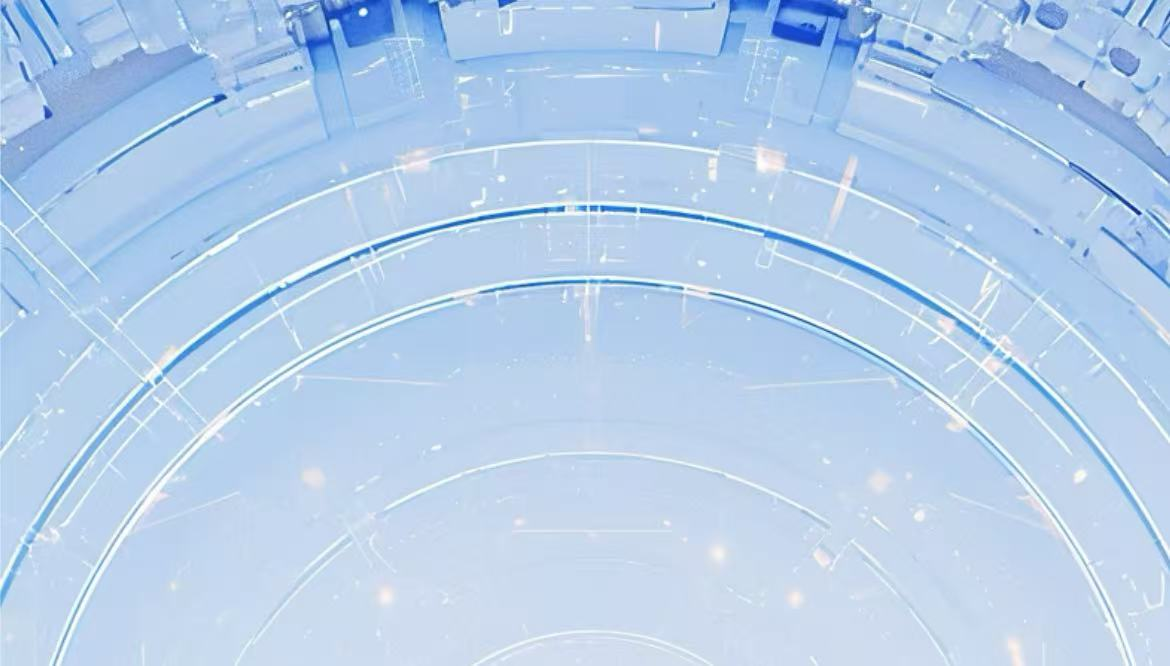
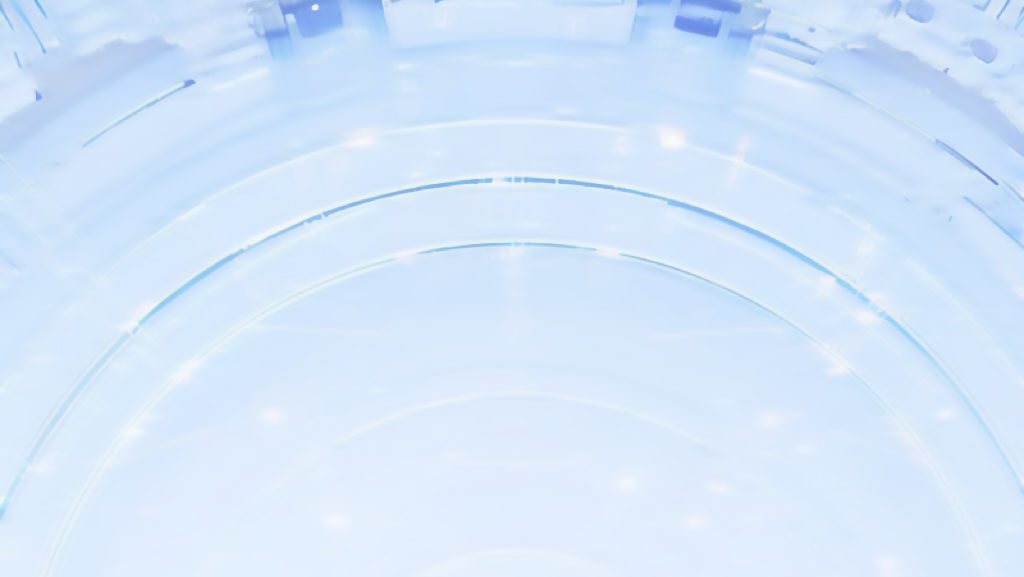
创建时间排序

diff --git a/src/views/governor/Governor.vue b/src/views/governor/Governor.vue
@@ -202,7 +202,7 @@
   >
     <template v-slot:footer>
       <span class="dialog-footer">
-        <el-button v-if="showJudgeButtonsForPreview" type="success" plain @click="handlePreviewJudge('pass')">合格</el-button>
+        <el-button v-if="showJudgeButtonsForPreview" type="success" plain @click="handleManualReviewPass()">合格</el-button>
         <el-button v-if="showJudgeButtonsForPreview" type="danger" plain @click="handlePreviewJudge('fail')">不合格</el-button>
       </span>
     </template>
@@ -572,7 +572,8 @@ function adaptBackendData(backendItem) {
     dataContent,
     hasReview: backendItem.hasReview || false,
     auditReport: backendItem.auditReport || '', // 新增
-    creatorName: backendItem.creatorName || '浙江省税务局' // 添加数源方字段
+    creatorName: backendItem.creatorName || '浙江省税务局', // 添加数源方字段
+    createdAt: backendItem.createdAt || backendItem.dataEntity?.createdAt || '' // 添加创建时间字段
   }
   
   return result;
@@ -595,35 +596,46 @@ const loadDataFromBackend = async () => {
       ElMessage.warning('数据格式不符合预期，请检查控制台')
     }
     
-    // 获取数源方信息
-    let creatorMap = {}
+    // 获取创建时间和数源方信息
+    let timeAndCreatorMap = {}
     try {
-      const creatorResponse = await axios.get('http://localhost:8081/api/objects/list1')
-      let creatorArray = []
-      if (Array.isArray(creatorResponse.data)) {
-        creatorArray = creatorResponse.data
-      } else if (creatorResponse.data.data && Array.isArray(creatorResponse.data.data)) {
-        creatorArray = creatorResponse.data.data
-      } else if (creatorResponse.data.list && Array.isArray(creatorResponse.data.list)) {
-        creatorArray = creatorResponse.data.list
+      const timeResponse = await axios.get('http://localhost:8081/api/objects/list1')
+      let timeArray = []
+      if (Array.isArray(timeResponse.data)) {
+        timeArray = timeResponse.data
+      } else if (timeResponse.data.data && Array.isArray(timeResponse.data.data)) {
+        timeArray = timeResponse.data.data
+      } else if (timeResponse.data.list && Array.isArray(timeResponse.data.list)) {
+        timeArray = timeResponse.data.list
       }
       
-      // 创建ID到creatorName的映射
-      creatorArray.forEach(item => {
+      // 创建ID到createdAt和creatorName的映射
+      timeArray.forEach(item => {
         if (item.id) {
-          creatorMap[item.id] = item.creatorName || '浙江省税务局'
+          timeAndCreatorMap[item.id] = {
+            createdAt: item.createdAt || '',
+            creatorName: item.creatorName || '浙江省税务局'
+          }
         }
       })
-    } catch (creatorError) {
-      console.warn('获取数源方信息失败:', creatorError)
+    } catch (timeError) {
+      console.warn('获取创建时间和数源方信息失败:', timeError)
     }
     
     // 合并数据
     tableData.value = dataArray.map(item => {
       const adaptedItem = adaptBackendData(item)
-      // 使用从list1接口获取的creatorName，如果没有则使用默认值
-      adaptedItem.creatorName = creatorMap[item.id] || '浙江省税务局'
+      // 使用从8081接口获取的createdAt和creatorName
+      const timeInfo = timeAndCreatorMap[item.id] || {}
+      adaptedItem.createdAt = timeInfo.createdAt || ''
+      adaptedItem.creatorName = timeInfo.creatorName || '浙江省税务局'
       return adaptedItem
+    })
+    
+    tableData.value.sort((a, b) => {
+      const dateA = new Date(a.createdAt || 0)
+      const dateB = new Date(b.createdAt || 0)
+      return dateB - dateA // 降序排列，最新的在前面
     })
     
     if (tableData.value.length === 0) {
@@ -1246,6 +1258,32 @@ const handlePreviewJudge = async (result) => {
   }
   showJudgeButtonsForPreview.value = false
   previewDialogVisible.value = false
+}
+
+// 手工审查合格处理方法 - 将状态更新为已合格并清空反馈意见
+const handleManualReviewPass = async () => {
+  // 从tableData中找到对应的行数据
+  const targetRow = tableData.value.find(row => row.id === previewForm.id)
+  if (!targetRow) {
+    ElMessage.error('无法找到对应的数据对象')
+    return
+  }
+  
+  try {
+    // 直接调用updateStatusViaBothPorts，传入空字符串作为反馈意见
+    const result = await updateStatusViaBothPorts(targetRow.id, '已合格', '')
+    if (result) {
+      ElMessage.success(`${targetRow.entity} 已更新为"已合格"状态，反馈意见已清空`)
+      loadDataFromBackend() // 重新加载数据
+      showJudgeButtonsForPreview.value = false
+      previewDialogVisible.value = false
+    } else {
+      ElMessage.warning(`${targetRow.entity} 状态更新失败`)
+    }
+  } catch (error) {
+    console.error('手工审查合格处理出错:', error)
+    ElMessage.error(`更新 ${targetRow.entity} 状态失败: ${error.message || '未知错误'}`)
+  }
 }
 
 const excelBinaryData = ref(null)

diff --git a/src/views/user/User.vue b/src/views/user/User.vue
@@ -26,7 +26,7 @@
               <el-icon><Refresh /></el-icon>
               刷新数据
             </el-button>
-            <!-- <el-button type="danger" plain @click="clearDatabase"><el-icon><Delete /></el-icon>清空使用方数据库</el-button> -->
+            <el-button type="danger" plain @click="clearDatabase"><el-icon><Delete /></el-icon>清空使用方数据库</el-button>
             <el-button type="primary" plain @click="showVisualization" class="visualization-btn">
               <el-icon><DataAnalysis /></el-icon>
               三维数据可视化
@@ -359,7 +359,8 @@ const loadTableData = async () => {
           feedback: detailItem.dataEntity?.feedback || '',
           locationInfo: detailItem.locationInfo || {},
           auditInfo: detailItem.auditInfo || {},
-          creatorName: detailItem.creatorName || '浙江省税务局'
+          creatorName: detailItem.creatorName || '浙江省税务局',
+          createdAt: detailItem.createdAt || detailItem.dataEntity?.createdAt || idItem.createdAt
         }
       } else {
         // 如果没有找到详细信息，只使用ID信息
@@ -380,12 +381,20 @@ const loadTableData = async () => {
           feedback: '',
           locationInfo: {},
           auditInfo: {},
-          creatorName: '浙江省税务局'
+          creatorName: '浙江省税务局',
+          createdAt: idItem.createdAt
         }
       }
     })
     
     tableData.value = mergedData
+    
+    tableData.value.sort((a, b) => {
+      const dateA = new Date(a.createdAt || 0)
+      const dateB = new Date(b.createdAt || 0)
+      return dateB - dateA // 降序排列，最新的在前面
+    })
+    
     console.log('数据加载完成，共', mergedData.length, '条记录')
     
   } catch (error) {

diff --git a/src/components/source/AuditLogDialog.vue b/src/components/source/AuditLogDialog.vue
@@ -3,6 +3,7 @@
     :model-value="visible"
     :title="`审计日志-${entityName || objectId || '未知实体'}`"
     width="1200px"
+    height="2000px"
     :close-on-click-modal="false"
     :show-close="true"
     @close="emit('close')"
@@ -11,7 +12,7 @@
   >
     <div class="audit-log-content">
       <!-- 左侧目录 -->
-      <div class="log-directory">
+      <!-- <div class="log-directory">
         <el-menu
           :default-active="activeType"
           class="log-menu"
@@ -23,7 +24,7 @@
           <el-menu-item index="查询">查询日志</el-menu-item>
           <el-menu-item index="审核">审核日志</el-menu-item>
         </el-menu>
-      </div>
+      </div> -->
       <!-- 右侧表格 -->
       <div class="log-table-area">
         <el-table
@@ -169,7 +170,7 @@ const fetchAuditLogs = async () => {
           return mappedData
         })
       )
-      allData.value = recordsWithHash
+      allData.value = recordsWithHash.sort((a, b) => new Date(b.time) - new Date(a.time))
       console.log('最终数据:', allData.value)
     } else {
       console.error('API返回错误:', result.msg)
@@ -308,6 +309,17 @@ function handleViewAuditLog() {
   font-size: 14px !important;
   text-align: center !important;
   padding: 12px 8px !important;
+}
+
+/* 设置弹窗高度 - 能容纳10条记录 */
+:deep(.audit-log-dialog) {
+  height: 750px !important;
+  max-height: 750px !important;
+}
+
+:deep(.audit-log-dialog .el-dialog__body) {
+  height: 600px !important;
+  overflow: visible;
 }
 
 .dialog-footer {

diff --git a/src/components/user/DirectoryTable.vue b/src/components/user/DirectoryTable.vue
@@ -88,8 +88,14 @@
           <el-table-column label="操作" width="200" align="center">
             <template #default="scope">
               <div class="operation-buttons">
-                <el-button 
+                <!-- <el-button 
                   v-if="!isGroupApplied(currentGroup)"
+                  type="primary" 
+                  plain 
+                  @click="handleApplyForGroup" 
+                  size="small"
+                > -->
+                <el-button 
                   type="primary" 
                   plain 
                   @click="handleApplyForGroup" 
@@ -97,7 +103,7 @@
                 >
                   申请
                 </el-button>
-                <el-button 
+                <!-- <el-button 
                   v-else
                   type="primary" 
                   plain 
@@ -105,7 +111,7 @@
                   size="small"
                 >
                   已申请
-                </el-button>
+                </el-button> -->
                 <el-button 
                   v-if="!isGroupDecrypted(currentGroup)"
                   type="success" 

diff --git a/src/components/source/ObjectList.vue b/src/components/source/ObjectList.vue
@@ -467,6 +467,14 @@ const tableData = computed(() => {
   } else if (props.currentStatus) {
     filtered = filtered.filter(item => item.status === props.currentStatus)
   }
+  
+  // 按创建时间从晚到早排序（最新的在前面）
+  filtered = filtered.sort((a, b) => {
+    const dateA = new Date(a.createdAt || a.dataEntity?.createdAt || 0)
+    const dateB = new Date(b.createdAt || b.dataEntity?.createdAt || 0)
+    return dateB - dateA 
+  })
+  
   const startIndex = (props.currentPage - 1) * props.pageSize
   const endIndex = startIndex + props.pageSize
   return filtered.slice(startIndex, Math.min(endIndex, filtered.length))

diff --git a/src/views/register/Register.vue b/src/views/register/Register.vue
@@ -2,7 +2,7 @@
   <div class="register-container">
     <div class="register-box">
       <div class="register-title">
-        <img src="/logo.jpg" alt="系统图标" class="system-icon" />
+        <img src="/logo.png" alt="系统图标" class="system-icon" />
         政务可信数据空间
       </div>
       <div class="register-subtitle">账号注册</div>

diff --git a/src/views/login/Login.vue b/src/views/login/Login.vue
@@ -2,7 +2,7 @@
   <div class="login-container">
     <div class="login-box">
       <div class="login-title">
-        <img src="/logo.jpg" alt="系统图标" class="system-icon" />
+        <img src="/logo.png" alt="系统图标" class="system-icon" />
         政务可信数据空间
       </div>
       <div class="login-subtitle">账号登录</div>

diff --git a/index.html b/index.html
@@ -2,7 +2,7 @@
 <html lang="en">
   <head>
     <meta charset="UTF-8" />
-    <link rel="icon" type="image/svg+xml" href="/vite.svg" />
+    <link rel="icon" type="image/x-icon" href="/logo.png" />
     <meta name="viewport" content="width=device-width, initial-scale=1.0" />
     <title>政务可信数据空间</title>
   </head>
